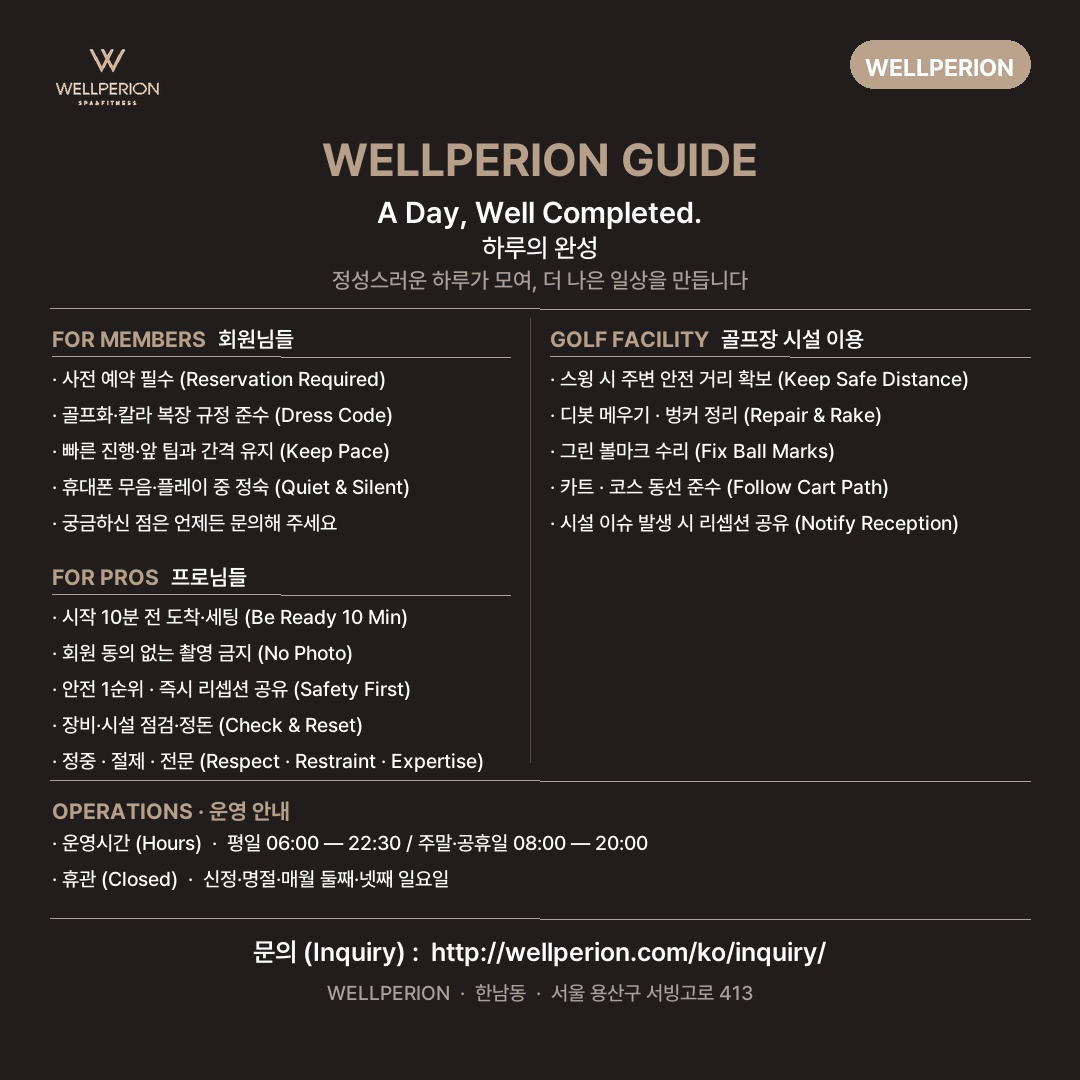
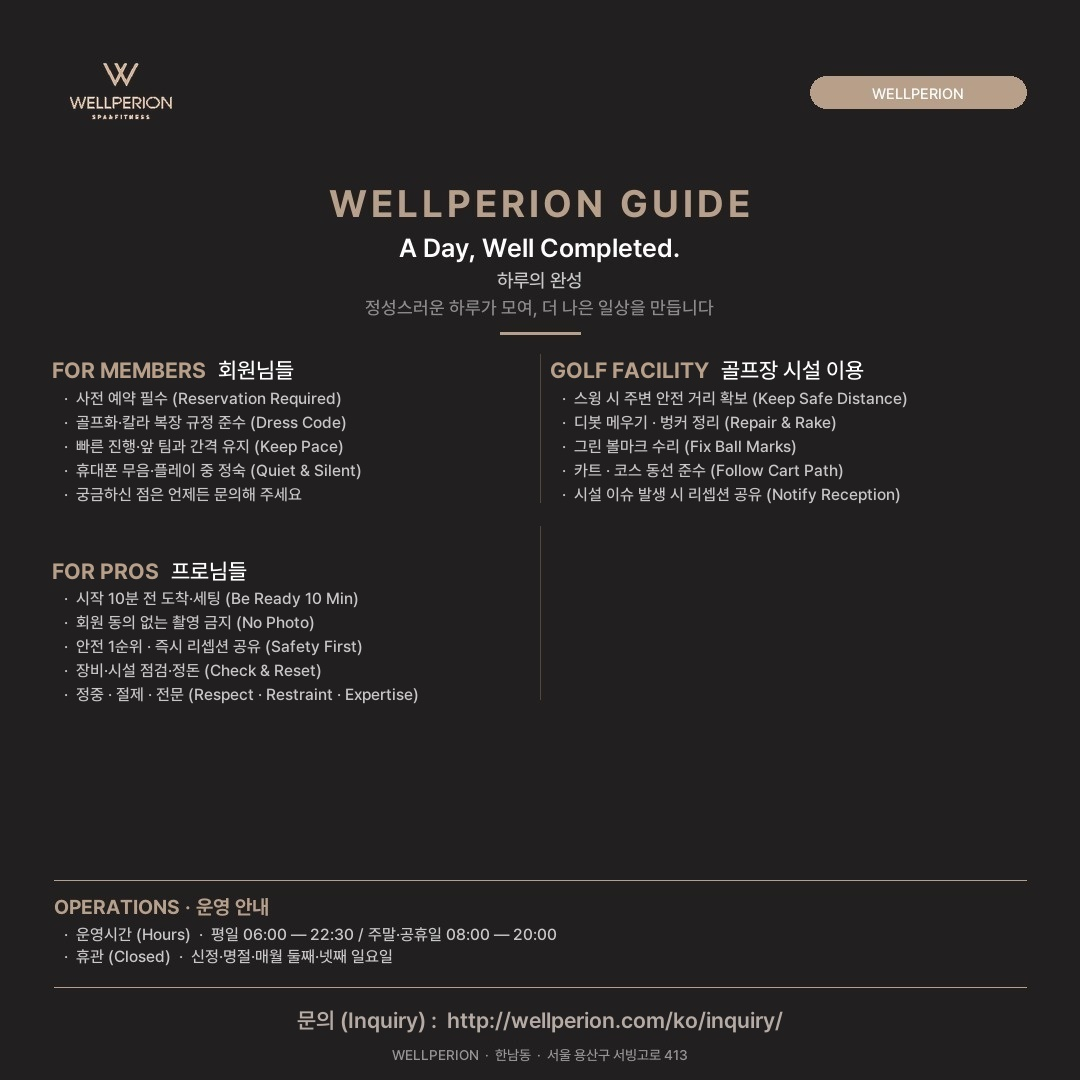
fix(cmo)[시모]: 골프 가이드카드 마스터 상속으로 교정 (제목·항목 크기↓·헤더밑줄 제거·여백 복원)
업장_가이드_디자인_표준.md 적용 — from-scratch v2 드리프트 제거, 항목 16px 연회색·줄간격24·OPERATIONS y900 마스터 여백 복원.

Claude-Session: https://claude.ai/code/session_01RjDHsAGh2BBzF3qJLYwW3G

diff --git a/scripts/compose_guideline_card_golf.py b/scripts/compose_guideline_card_golf.py
@@ -1,11 +1,19 @@
-"""골프 전용 가이드라인 카드 생성기 (전면 재설계 v2)
-레이아웃·톤(차콜배경·베이지·로고·칩·구분선·OPERATIONS·문의·주소)은 기존 표준 그대로.
-가운데 3개 섹션 텍스트만 골프 전용으로 전면 교체.
+"""골프 전용 가이드라인 카드 생성기 (v3 · 마스터 상속)
+
+표준: instagram/_assets/업장_가이드_디자인_표준.md
+황금 규칙 — 마스터 `guideline_card.jpg`를 베이스로, **가운데 3섹션 텍스트만** 골프용으로 교체.
+프레임(로고·칩·제목블록·중앙 세로 구분선·OPERATIONS·문의·주소·여백)은 마스터 픽셀 그대로 둔다.
+★from-scratch 재작성 금지(v2 사고: 제목46·항목20·헤더밑줄·배경변형·여백압축 드리프트).
+
+본문 좌표·크기 = 마스터 실측 정본:
+  섹션 헤더  Bold/Medium 22 (영문 베이지 / 국문 흰색), 상단 y=357 · 좌하 y=558
+  항목       Medium 16, 연회색 (200,198,199), 줄간격 24px
+  좌칼럼 x=52(헤더)/64(항목) · 우칼럼 x=550/562 · 중앙 구분선·프레임 보존
 
 섹션:
-  좌상 — FOR MEMBERS  회원님들
-  좌하 — FOR PROS  프로님들  (기존 FOR INSTRUCTORS 자리)
-  우측 — GOLF FACILITY  골프장 시설 이용
+  좌상 — FOR MEMBERS   회원님들
+  좌하 — FOR PROS      프로님들
+  우측 — GOLF FACILITY 골프장 시설 이용
 
 출력: instagram/_assets/guideline_card_golf.jpg
 실행: python scripts/compose_guideline_card_golf.py
@@ -17,144 +25,87 @@ from PIL import Image, ImageDraw
 
 import sys as _sys
 _sys.path.insert(0, str(Path(__file__).parent))
-from brand_constants import (
-    PROJECT_ROOT, LOGO_BEIGE_ALPHA,
-    BEIGE, BLACK_BG, WHITE, GRAY, SEP_LINE,
-)
-from compose_barre import load_font, draw_chip
+from brand_constants import PROJECT_ROOT, BEIGE, WHITE
+from compose_barre import load_font, center_crop_fill
 
 W, H = 1080, 1080
+MASTER   = PROJECT_ROOT / "instagram" / "_assets" / "guideline_card.jpg"
 OUT_CARD = PROJECT_ROOT / "instagram" / "_assets" / "guideline_card_golf.jpg"
 
-BG       = (32, 29, 28)   # 원본 배경 실측
-LINE_COL = (80, 74, 70)   # 중앙 세로 구분선
-DOT      = "· "
-LINE_H   = 36             # 항목 줄 간격
+# 본문 정본 (표준 §3 — 마스터 실측값)
+ITEM_COLOR  = (200, 198, 199)   # 연회색(순백 아님)
+ITEM_YS_TOP = [388, 412, 436, 460, 484]   # 상단 섹션 항목 Y (줄간격 24)
+ITEM_YS_BOT = [588, 612, 636, 660, 684]   # 좌하 섹션 항목 Y
+LX_H, LX_I  = 52, 64    # 좌칼럼 헤더/항목 x
+RX_H, RX_I  = 550, 562  # 우칼럼 헤더/항목 x
+HDR_Y_TOP   = 357
+HDR_Y_BOT   = 558
 
-
-def _paste_logo(canvas: Image.Image, logo_w: int = 130) -> Image.Image:
-    logo = Image.open(LOGO_BEIGE_ALPHA).convert("RGBA")
-    ow, oh = logo.size
-    lh = int(oh * logo_w / ow)
-    logo = logo.resize((logo_w, lh), Image.LANCZOS)
-    base = canvas.convert("RGBA")
-    base.paste(logo, (40, 40), mask=logo)
-    return base.convert("RGB")
+MEMBERS = [
+    "사전 예약 필수 (Reservation Required)",
+    "골프화·칼라 복장 규정 준수 (Dress Code)",
+    "빠른 진행·앞 팀과 간격 유지 (Keep Pace)",
+    "휴대폰 무음·플레이 중 정숙 (Quiet & Silent)",
+    "궁금하신 점은 언제든 문의해 주세요",
+]
+PROS = [
+    "시작 10분 전 도착·세팅 (Be Ready 10 Min)",
+    "회원 동의 없는 촬영 금지 (No Photo)",
+    "안전 1순위 · 즉시 리셉션 공유 (Safety First)",
+    "장비·시설 점검·정돈 (Check & Reset)",
+    "정중 · 절제 · 전문 (Respect · Restraint · Expertise)",
+]
+FACILITY = [
+    "스윙 시 주변 안전 거리 확보 (Keep Safe Distance)",
+    "디봇 메우기 · 벙커 정리 (Repair & Rake)",
+    "그린 볼마크 수리 (Fix Ball Marks)",
+    "카트 · 코스 동선 준수 (Follow Cart Path)",
+    "시설 이슈 발생 시 리셉션 공유 (Notify Reception)",
+]
 
 
 def compose_guideline_card_golf(output_path: Path = OUT_CARD) -> None:
-    canvas = Image.new("RGB", (W, H), BG)
-    canvas = _paste_logo(canvas, logo_w=130)
-    draw   = ImageDraw.Draw(canvas)
+    if not MASTER.exists():
+        raise FileNotFoundError(f"마스터 가이드카드 없음: {MASTER} (instagram/_assets/guideline_card.jpg 복구 필요)")
 
-    # ── 우상단 칩 ─────────────────────────────────────────────────
-    chip_font = load_font("bold", 24)
-    draw_chip(draw, "WELLPERION", chip_font, W - 50 - 180, 40, 180, 48)
+    img = Image.open(MASTER).convert("RGB")
+    if img.size != (W, H):
+        img = center_crop_fill(MASTER, W, H)
+    draw = ImageDraw.Draw(img)
 
-    # ── 상단 제목 블록 ────────────────────────────────────────────
-    draw.text((W // 2, 160), "WELLPERION GUIDE",
-              font=load_font("bold", 46), fill=BEIGE, anchor="mm")
-    draw.text((W // 2, 212), "A Day, Well Completed.",
-              font=load_font("semibold", 30), fill=WHITE, anchor="mm")
-    draw.text((W // 2, 248), "하루의 완성",
-              font=load_font("medium", 26), fill=WHITE, anchor="mm")
-    draw.text((W // 2, 280), "정성스러운 하루가 모여, 더 나은 일상을 만듭니다",
-              font=load_font("medium", 22), fill=GRAY, anchor="mm")
+    # 여백 빈 곳 배경색 샘플 → 단색 fill로 마스터 본문 텍스트만 지움(프레임·중앙구분선·OPERATIONS 보존)
+    bg = img.getpixel((60, 760))
+    draw.rectangle((44, 344, 516, 712), fill=bg)   # 좌칼럼 본문
+    draw.rectangle((544, 344, 1036, 712), fill=bg)  # 우칼럼 본문 (중앙 구분선 x517~543 보존)
 
-    # 상단 / 섹션 구분 가로선
-    draw.line([(50, 308), (W - 50, 309)], fill=SEP_LINE, width=1)
+    f_h_eng = load_font("bold", 22)
+    f_h_kor = load_font("medium", 22)
+    f_item  = load_font("medium", 16)
 
-    # ── 중앙 세로 구분선 ──────────────────────────────────────────
-    MID_X = 530
-    draw.line([(MID_X, 318), (MID_X, 762)], fill=LINE_COL, width=1)
+    def header(x: int, y: int, eng: str, kor: str) -> None:
+        draw.text((x, y), eng, font=f_h_eng, fill=BEIGE)
+        ew = draw.textlength(eng, font=f_h_eng)
+        draw.text((x + ew + 12, y), kor, font=f_h_kor, fill=WHITE)
 
-    # 섹션 공통 폰트
-    f_sec_eng  = load_font("bold",     22)
-    f_sec_kor  = load_font("semibold", 22)
-    f_item     = load_font("medium",   20)
+    def items(x: int, ys: list[int], arr: list[str]) -> None:
+        for yy, it in zip(ys, arr):
+            draw.text((x, yy), f"·  {it}", font=f_item, fill=ITEM_COLOR)
 
-    def _section_header(x: int, y: int, eng: str, kor: str,
-                        x_end: int) -> int:
-        """섹션 제목 + 하단 구분선 그리기. 다음 y 반환."""
-        ew = draw.textlength(eng, font=f_sec_eng)
-        draw.text((x, y), eng, font=f_sec_eng, fill=BEIGE)
-        draw.text((x + ew + 12, y), kor, font=f_sec_kor, fill=WHITE)
-        y += 30
-        draw.line([(x, y), (x_end, y + 1)], fill=SEP_LINE, width=1)
-        return y + 10
-
-    def _items(x: int, y: int, items: list[str]) -> int:
-        for item in items:
-            draw.text((x, y), f"{DOT}{item}", font=f_item, fill=WHITE)
-            y += LINE_H
-        return y
-
-    # ── 좌상: FOR MEMBERS  회원님들 ──────────────────────────────
-    Lx = 52
-    y  = 326
-    y = _section_header(Lx, y, "FOR MEMBERS", "회원님들", MID_X - 20)
-    y = _items(Lx, y, [
-        "사전 예약 필수 (Reservation Required)",
-        "골프화·칼라 복장 규정 준수 (Dress Code)",
-        "빠른 진행·앞 팀과 간격 유지 (Keep Pace)",
-        "휴대폰 무음·플레이 중 정숙 (Quiet & Silent)",
-        "궁금하신 점은 언제든 문의해 주세요",
-    ])
-
-    # ── 좌하: FOR PROS  프로님들 ─────────────────────────────────
-    y += 18
-    y = _section_header(Lx, y, "FOR PROS", "프로님들", MID_X - 20)
-    _items(Lx, y, [
-        "시작 10분 전 도착·세팅 (Be Ready 10 Min)",
-        "회원 동의 없는 촬영 금지 (No Photo)",
-        "안전 1순위 · 즉시 리셉션 공유 (Safety First)",
-        "장비·시설 점검·정돈 (Check & Reset)",
-        "정중 · 절제 · 전문 (Respect · Restraint · Expertise)",
-    ])
-
-    # ── 우측: GOLF FACILITY  골프장 시설 이용 ────────────────────
-    Rx = MID_X + 20
-    ry = 326
-    ry = _section_header(Rx, ry, "GOLF FACILITY", "골프장 시설 이용", W - 50)
-    _items(Rx, ry, [
-        "스윙 시 주변 안전 거리 확보 (Keep Safe Distance)",
-        "디봇 메우기 · 벙커 정리 (Repair & Rake)",
-        "그린 볼마크 수리 (Fix Ball Marks)",
-        "카트 · 코스 동선 준수 (Follow Cart Path)",
-        "시설 이슈 발생 시 리셉션 공유 (Notify Reception)",
-    ])
-
-    # ── OPERATIONS 운영 안내 ──────────────────────────────────────
-    ops_y = 780
-    draw.line([(50, ops_y), (W - 50, ops_y + 1)], fill=SEP_LINE, width=1)
-    ops_y += 18
-    draw.text((52, ops_y), "OPERATIONS · 운영 안내",
-              font=load_font("bold", 22), fill=BEIGE)
-    ops_y += 32
-    draw.text((52, ops_y),
-              "· 운영시간 (Hours)  ·  평일 06:00 — 22:30 / 주말·공휴일 08:00 — 20:00",
-              font=load_font("medium", 20), fill=WHITE)
-    ops_y += LINE_H
-    draw.text((52, ops_y),
-              "· 휴관 (Closed)  ·  신정·명절·매월 둘째·넷째 일요일",
-              font=load_font("medium", 20), fill=WHITE)
-
-    # ── 하단 문의·주소 ────────────────────────────────────────────
-    draw.line([(50, 918), (W - 50, 919)], fill=SEP_LINE, width=1)
-    draw.text((W // 2, 952),
-              "문의 (Inquiry) :  http://wellperion.com/ko/inquiry/",
-              font=load_font("semibold", 26), fill=WHITE, anchor="mm")
-    draw.text((W // 2, 992),
-              "WELLPERION  ·  한남동  ·  서울 용산구 서빙고로 413",
-              font=load_font("medium", 20), fill=GRAY, anchor="mm")
+    # 좌상 FOR MEMBERS / 좌하 FOR PROS / 우상 GOLF FACILITY
+    header(LX_H, HDR_Y_TOP, "FOR MEMBERS", "회원님들")
+    items(LX_I, ITEM_YS_TOP, MEMBERS)
+    header(LX_H, HDR_Y_BOT, "FOR PROS", "프로님들")
+    items(LX_I, ITEM_YS_BOT, PROS)
+    header(RX_H, HDR_Y_TOP, "GOLF FACILITY", "골프장 시설 이용")
+    items(RX_I, ITEM_YS_TOP, FACILITY)
 
     output_path.parent.mkdir(parents=True, exist_ok=True)
-    canvas.save(output_path, "JPEG", quality=95, optimize=True)
-    print(f"  [골프 가이드카드 v2] {output_path.name} ({output_path.stat().st_size // 1024}KB)")
+    img.save(output_path, "JPEG", quality=95, optimize=True)
+    print(f"  [골프 가이드카드 v3·마스터상속] {output_path.name} ({output_path.stat().st_size // 1024}KB)")
 
 
 def main() -> None:
-    print("=== 골프 전용 가이드라인 카드 생성 (전면 재설계 v2) ===")
+    print("=== 골프 가이드라인 카드 생성 (v3 · 마스터 상속) ===")
     compose_guideline_card_golf(OUT_CARD)
     print(f"출력: {OUT_CARD}")
 
